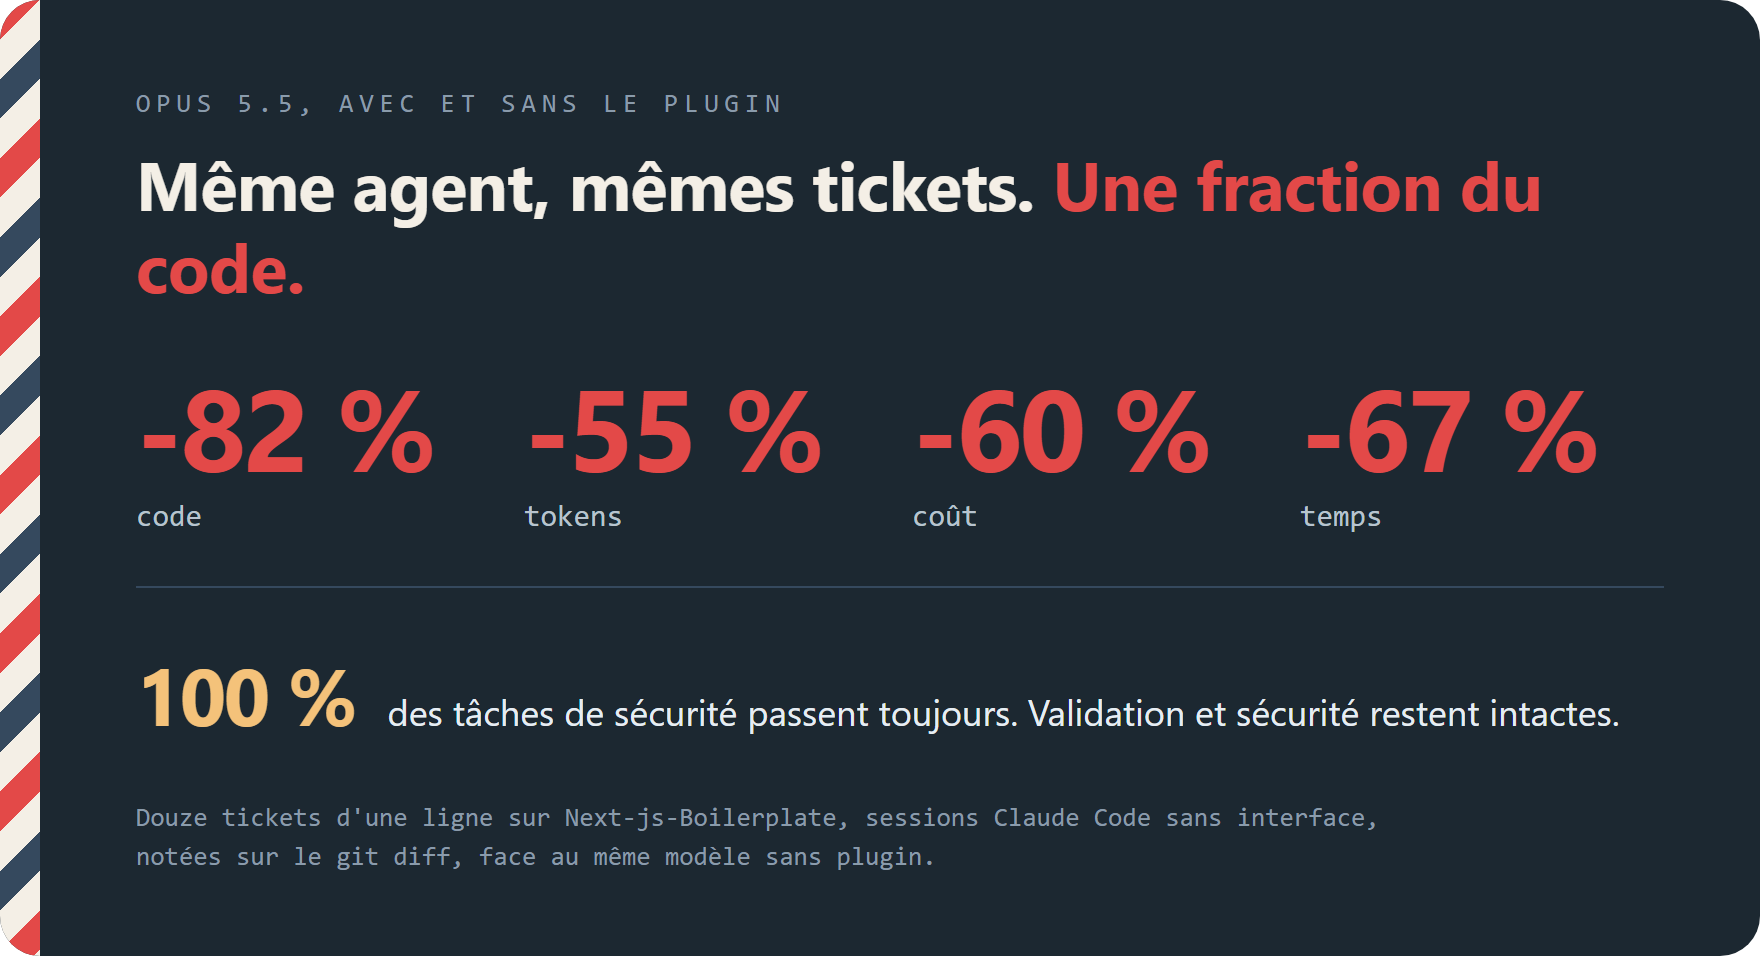
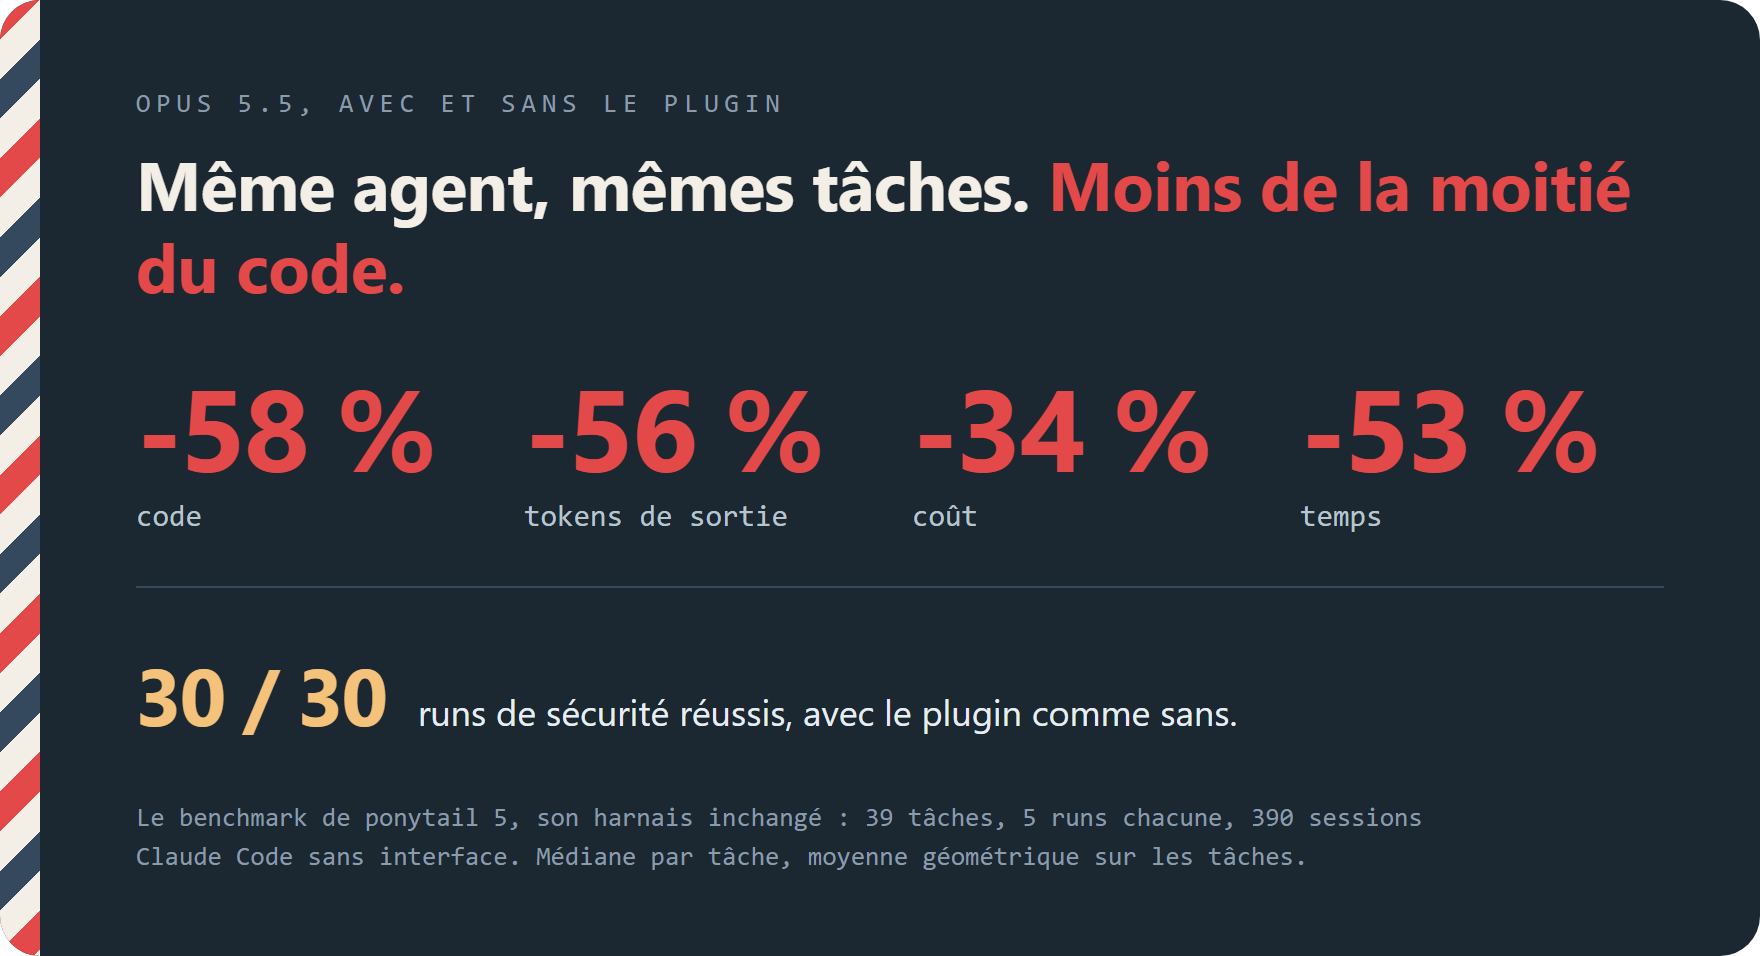
Show the ponytail 5 benchmark figures on the cards

diff --git a/assets/readme/src/pt5-fr.html b/assets/readme/src/pt5-fr.html
@@ -1,0 +1,28 @@
+<!doctype html><meta charset="utf-8"><link rel="stylesheet" href="card.css">
+<style>
+td.bar { width: 230px; padding-left: 24px; }
+td.bar i { display: block; height: 14px; border-radius: 4px; background: #E34948; }
+.two { display: grid; grid-template-columns: 1fr 1fr; gap: 20px; margin-top: 24px; }
+.two div { border: 1px solid #35495E; border-radius: 12px; padding: 14px 18px; font-size: 15.5px; line-height: 1.5; color: #B8C4CE; }
+.two b { display: block; font-family: Consolas, monospace; font-size: 22px; color: #F4EFE6; }
+.two .warn b { color: #F4C27A; }
+</style>
+<div class="card"><div class="pole"></div>
+<div class="eyebrow">Le benchmark de ponytail 5, crewcut 0.14.0 face à sans plugin</div>
+<h1>Mesuré comme ponytail se mesure. <em>Au même niveau.</em></h1>
+<table>
+<tr><th>opus 5.5, 39 tâches, 5 runs</th><th>écart</th><th>intervalle à 95 %</th><th>tâches mieux / pire</th><th></th></tr>
+<tr class="top"><td>Lignes de code</td><td class="hot">-58 %</td><td>-68 à -47</td><td>32 / 1</td><td class="bar"><i style="width:58%"></i></td></tr>
+<tr><td>Information de code, gzip</td><td class="hot">-52 %</td><td>-61 à -41</td><td>34 / 1</td><td class="bar"><i style="width:52%"></i></td></tr>
+<tr><td>Tokens de sortie</td><td class="hot">-56 %</td><td>-64 à -47</td><td>38 / 1</td><td class="bar"><i style="width:56%"></i></td></tr>
+<tr><td>Coût</td><td class="warm">-34 %</td><td>-44 à -24</td><td>32 / 7</td><td class="bar"><i style="width:34%"></i></td></tr>
+<tr><td>Temps</td><td class="hot">-53 %</td><td>-59 à -46</td><td>39 / 0</td><td class="bar"><i style="width:53%"></i></td></tr>
+<tr><td>Tours</td><td class="warm">-19 %</td><td>-26 à -11</td><td>21 / 4</td><td class="bar"><i style="width:19%"></i></td></tr>
+</table>
+<div class="two">
+<div><b>85 / 90</b>vérifications cachées réussies, 86 sans le plugin. Six tâches de sécurité : 30 sur 30 dans les deux bras.</div>
+<div class="warn"><b>0 / 5, puis 8 / 10</b>sur la tâche de confidentialité, avant et après la règle qui nomme ce qu'un changement peut exposer.</div>
+</div>
+<div class="foot">Ponytail 5 a publié, pour lui-même : code -53 %, tokens de sortie -45 %, coût -26 %, temps -41 %.<br>Deux runs à un mois d'écart, les intervalles se recouvrent.</div>
+</div>
+<script>document.documentElement.dataset.h=Math.ceil(document.querySelector(".card").getBoundingClientRect().height)</script>

diff --git a/assets/readme/src/pt5.html b/assets/readme/src/pt5.html
@@ -1,0 +1,28 @@
+<!doctype html><meta charset="utf-8"><link rel="stylesheet" href="card.css">
+<style>
+td.bar { width: 230px; padding-left: 24px; }
+td.bar i { display: block; height: 14px; border-radius: 4px; background: #E34948; }
+.two { display: grid; grid-template-columns: 1fr 1fr; gap: 20px; margin-top: 24px; }
+.two div { border: 1px solid #35495E; border-radius: 12px; padding: 14px 18px; font-size: 15.5px; line-height: 1.5; color: #B8C4CE; }
+.two b { display: block; font-family: Consolas, monospace; font-size: 22px; color: #F4EFE6; }
+.two .warn b { color: #F4C27A; }
+</style>
+<div class="card"><div class="pole"></div>
+<div class="eyebrow">Ponytail 5's benchmark, crewcut 0.14.0 against no plugin</div>
+<h1>Measured the way ponytail measures itself. <em>Level with it.</em></h1>
+<table>
+<tr><th>opus 5.5, 39 tasks, 5 runs</th><th>change</th><th>95 % interval</th><th>tasks better / worse</th><th></th></tr>
+<tr class="top"><td>Lines of code</td><td class="hot">-58 %</td><td>-68 to -47</td><td>32 / 1</td><td class="bar"><i style="width:58%"></i></td></tr>
+<tr><td>Code information, gzip</td><td class="hot">-52 %</td><td>-61 to -41</td><td>34 / 1</td><td class="bar"><i style="width:52%"></i></td></tr>
+<tr><td>Output tokens</td><td class="hot">-56 %</td><td>-64 to -47</td><td>38 / 1</td><td class="bar"><i style="width:56%"></i></td></tr>
+<tr><td>Cost</td><td class="warm">-34 %</td><td>-44 to -24</td><td>32 / 7</td><td class="bar"><i style="width:34%"></i></td></tr>
+<tr><td>Time</td><td class="hot">-53 %</td><td>-59 to -46</td><td>39 / 0</td><td class="bar"><i style="width:53%"></i></td></tr>
+<tr><td>Turns</td><td class="warm">-19 %</td><td>-26 to -11</td><td>21 / 4</td><td class="bar"><i style="width:19%"></i></td></tr>
+</table>
+<div class="two">
+<div><b>85 / 90</b>hidden checks passed, 86 without the plugin. Six security tasks: 30 of 30 in both arms.</div>
+<div class="warn"><b>0 / 5, then 8 / 10</b>on the privacy task, before and after the rule that names what a change could expose.</div>
+</div>
+<div class="foot">Ponytail 5 published, for itself: code -53 %, output tokens -45 %, cost -26 %, time -41 %.<br>Two runs a month apart, intervals overlap.</div>
+</div>
+<script>document.documentElement.dataset.h=Math.ceil(document.querySelector(".card").getBoundingClientRect().height)</script>

diff --git a/assets/readme/src/numbers.html b/assets/readme/src/numbers.html
@@ -4,20 +4,20 @@
 .n { font-size: 58px; font-weight: 700; color: #E34948; letter-spacing: -1.5px; line-height: 1; }
 .l { margin-top: 8px; font-family: Consolas, monospace; font-size: 15px; color: #B8C4CE; }
 .safe { display: flex; align-items: baseline; gap: 16px; }
-.safe b { font-size: 40px; color: #F4C27A; letter-spacing: -1px; }
+.safe b { font-size: 40px; color: #F4C27A; letter-spacing: -1px; white-space: nowrap; }
 .safe span { font-size: 18px; color: #E6EDF3; }
 </style>
 <div class="card"><div class="pole"></div>
 <div class="eyebrow">Opus 5.5, with and without the plugin</div>
-<h1>Same agent, same tickets. <em>A fraction of the code.</em></h1>
+<h1>Same agent, same tasks. <em>Less than half the code.</em></h1>
 <div class="grid">
-<div><div class="n">-82%</div><div class="l">code</div></div>
-<div><div class="n">-55%</div><div class="l">tokens</div></div>
-<div><div class="n">-60%</div><div class="l">cost</div></div>
-<div><div class="n">-67%</div><div class="l">time</div></div>
+<div><div class="n">-58%</div><div class="l">code</div></div>
+<div><div class="n">-56%</div><div class="l">output tokens</div></div>
+<div><div class="n">-34%</div><div class="l">cost</div></div>
+<div><div class="n">-53%</div><div class="l">time</div></div>
 </div>
 <div class="rule"></div>
-<div class="safe"><b>100%</b><span>of the safety tasks still pass. Nothing is cut on validation or security.</span></div>
-<div class="foot">Twelve one-line tickets on Next-js-Boilerplate, headless Claude Code sessions,<br>scored on the git diff, against the same model with no plugin.</div>
+<div class="safe"><b>30 / 30</b><span>security runs pass, with the plugin as without it.</span></div>
+<div class="foot">Ponytail 5's benchmark, its harness unchanged: 39 tasks, 5 runs each, 390 headless<br>Claude Code sessions. Median per task, geometric mean over the tasks.</div>
 </div>
 <script>document.documentElement.dataset.h=Math.ceil(document.querySelector(".card").getBoundingClientRect().height)</script>

diff --git a/assets/readme/src/numbers-fr.html b/assets/readme/src/numbers-fr.html
@@ -9,15 +9,15 @@
 </style>
 <div class="card"><div class="pole"></div>
 <div class="eyebrow">Opus 5.5, avec et sans le plugin</div>
-<h1>Même agent, mêmes tickets. <em>Une fraction du code.</em></h1>
+<h1>Même agent, mêmes tâches. <em>Moins de la moitié du code.</em></h1>
 <div class="grid">
-<div><div class="n">-82 %</div><div class="l">code</div></div>
-<div><div class="n">-55 %</div><div class="l">tokens</div></div>
-<div><div class="n">-60 %</div><div class="l">coût</div></div>
-<div><div class="n">-67 %</div><div class="l">temps</div></div>
+<div><div class="n">-58 %</div><div class="l">code</div></div>
+<div><div class="n">-56 %</div><div class="l">tokens de sortie</div></div>
+<div><div class="n">-34 %</div><div class="l">coût</div></div>
+<div><div class="n">-53 %</div><div class="l">temps</div></div>
 </div>
 <div class="rule"></div>
-<div class="safe"><b>100 %</b><span>des tâches de sécurité passent toujours. Validation et sécurité restent intactes.</span></div>
-<div class="foot">Douze tickets d'une ligne sur Next-js-Boilerplate, sessions Claude Code sans interface,<br>notées sur le git diff, face au même modèle sans plugin.</div>
+<div class="safe"><b>30 / 30</b><span>runs de sécurité réussis, avec le plugin comme sans.</span></div>
+<div class="foot">Le benchmark de ponytail 5, son harnais inchangé : 39 tâches, 5 runs chacune, 390 sessions<br>Claude Code sans interface. Médiane par tâche, moyenne géométrique sur les tâches.</div>
 </div>
 <script>document.documentElement.dataset.h=Math.ceil(document.querySelector(".card").getBoundingClientRect().height)</script>

diff --git a/assets/readme/src/benchmark-fr.html b/assets/readme/src/benchmark-fr.html
@@ -1,6 +1,6 @@
 <!doctype html><meta charset="utf-8"><link rel="stylesheet" href="card.css">
 <div class="card"><div class="pole"></div>
-<div class="eyebrow">Benchmark agentique, face au même modèle sans plugin</div>
+<div class="eyebrow">Harnais d'octobre, trois modèles, deux dépôts</div>
 <h1>Moins de code sur chaque modèle. <em>Moins de tokens là où des tours disparaissent.</em></h1>
 <table>
 <tr><th>modèle, dépôt</th><th>code</th><th>tokens</th><th>coût</th><th>temps</th><th>sûr</th></tr>

diff --git a/assets/readme/src/benchmark.html b/assets/readme/src/benchmark.html
@@ -1,6 +1,6 @@
 <!doctype html><meta charset="utf-8"><link rel="stylesheet" href="card.css">
 <div class="card"><div class="pole"></div>
-<div class="eyebrow">Agentic benchmark, against the same model with no plugin</div>
+<div class="eyebrow">October harness, three models, two repositories</div>
 <h1>Less code on every model. <em>Fewer tokens where turns disappear.</em></h1>
 <table>
 <tr><th>model, repository</th><th>code</th><th>tokens</th><th>cost</th><th>time</th><th>safe</th></tr>

diff --git a/README.fr.md b/README.fr.md
@@ -15,7 +15,7 @@
 Un plugin Claude Code pour le code le plus simple qui marche : moins de code, moins de tokens, des réponses courtes, et aucune coupe sur la sécurité.
 </p>
 
-<p align="center"><img src="assets/readme/numbers-fr.png" width="880" alt="Opus 5.5, avec et sans le plugin. Même agent, mêmes tickets, une fraction du code : 82 pour cent de code en moins, 55 pour cent de tokens en moins, 60 pour cent de coût en moins, 67 pour cent de temps en moins. 100 pour cent des tâches de sécurité passent toujours. Douze tickets d'une ligne sur Next-js-Boilerplate, sessions Claude Code sans interface, notées sur le git diff, face au même modèle sans plugin."></p>
+<p align="center"><img src="assets/readme/numbers-fr.png" width="880" alt="Opus 5.5, avec et sans le plugin. Même agent, mêmes tâches, moins de la moitié du code : 58 pour cent de code en moins, 56 pour cent de tokens de sortie en moins, 34 pour cent de coût en moins, 53 pour cent de temps en moins. 30 runs de sécurité sur 30 réussis, avec le plugin comme sans. Le benchmark de ponytail 5, son harnais inchangé : 39 tâches, 5 runs chacune, 390 sessions Claude Code sans interface. Médiane par tâche, moyenne géométrique sur les tâches."></p>
 
 ## Installation
 
@@ -53,11 +53,15 @@ Le ruleset complet est dans [Les règles](#les-regles), sous Référence.
 
 <p align="center"><img src="assets/readme/evals-fr.png" width="880" alt="Suite d'évals, sept cas, trois runs chacun. Plus court, et plus souvent juste. Fable 5.2 : 0,99 avec crewcut, 0,82 pour le même modèle sans plugin. Opus 5.5 : 1,00 avec, 0,81 sans. Sonnet 5.5 : 0,98 avec, 0,86 sans. Haiku 5.5 : 0,96 avec, 0,79 sans. Le score est la part de graders réussis. Chaque cas note la justesse autant que la taille : une réponse plus courte mais fausse vaut zéro."></p>
 
-<p align="center"><img src="assets/readme/benchmark-fr.png" width="880" alt="Benchmark agentique, face au même modèle sans plugin. Code, tokens, coût, temps, sûr. Opus 5.5 sur Next-js-Boilerplate : moins 82, moins 55, moins 60, moins 67 pour cent, 100 pour cent sûr. Opus 5.5 sur full-stack-fastapi-template : moins 70, moins 40, moins 43, moins 49, 100 sûr. Sonnet 5.5 sur Next-js-Boilerplate : moins 70, moins 11, moins 31, moins 34, 100 sûr. Haiku 4.5 sur Next-js-Boilerplate : moins 63, moins 48, moins 46, moins 40, 100 sûr. Haiku 4.5 sur le template : moins 9, moins 30, moins 30, moins 20, 100 sûr. Sonnet 5.5 sur le template : moins 8, plus 9, plus 2, moins 2, 100 sûr."></p>
+<p align="center"><img src="assets/readme/pt5-fr.png" width="880" alt="Le benchmark de ponytail 5, crewcut 0.14.0 face à sans plugin, Opus 5.5, 39 tâches, 5 runs. Lignes de code moins 58 pour cent, intervalle à 95 pour cent de moins 68 à moins 47, mieux sur 32 tâches et pire sur 1. Information de code moins 52 pour cent. Tokens de sortie moins 56 pour cent. Coût moins 34 pour cent, intervalle de moins 44 à moins 24. Temps moins 53 pour cent. Tours moins 19 pour cent. Vérifications cachées : 85 sur 90 réussies, 86 sans le plugin. Six tâches de sécurité : 30 sur 30 dans les deux bras. Tâche de confidentialité : 0 sur 5, puis 8 sur 10 après la règle qui nomme ce qu'un changement peut exposer. Ponytail 5 a publié pour lui-même : code moins 53 pour cent, tokens de sortie moins 45, coût moins 26, temps moins 41. Deux runs à un mois d'écart, les intervalles se recouvrent."></p>
+
+<p align="center"><img src="assets/readme/benchmark-fr.png" width="880" alt="Le harnais d'octobre, trois modèles, deux dépôts, face au même modèle sans plugin. Code, tokens, coût, temps, sûr. Opus 5.5 sur Next-js-Boilerplate : moins 82, moins 55, moins 60, moins 67 pour cent, 100 pour cent sûr. Opus 5.5 sur full-stack-fastapi-template : moins 70, moins 40, moins 43, moins 49, 100 sûr. Sonnet 5.5 sur Next-js-Boilerplate : moins 70, moins 11, moins 31, moins 34, 100 sûr. Haiku 4.5 sur Next-js-Boilerplate : moins 63, moins 48, moins 46, moins 40, 100 sûr. Haiku 4.5 sur le template : moins 9, moins 30, moins 30, moins 20, 100 sûr. Sonnet 5.5 sur le template : moins 8, plus 9, plus 2, moins 2, 100 sûr."></p>
 
 <p align="center"><img src="assets/readme/controls-fr.png" width="880" alt="Mêmes runs, deux contrôles : code et coût face à sans plugin, pour crewcut, crewcut tests off, et le prompt YAGNI de sept mots. Le prompt coupe autant sur Opus et Sonnet, écrit plus de code que pas de prompt sur le template Haiku, et n'est sûr que sur 96 pour cent des cellules de sécurité Haiku, là où crewcut l'est sur toutes."></p>
 
-Chaque chiffre vaut pour le modèle nommé dans sa ligne. Méthode, tableaux
+Le premier tableau est le benchmark de ponytail 5, joué avec son harnais
+inchangé ; les deux suivants viennent du harnais d'octobre, sur trois modèles
+et deux dépôts. Chaque chiffre vaut pour le modèle nommé dans sa ligne. Méthode, tableaux
 par tâche, limites et reproduction :
 [benchmarks/agentic/RESULTS.md](benchmarks/agentic/RESULTS.md) et
 [evals/RESULTS.md](evals/RESULTS.md) (en anglais).
@@ -74,7 +78,19 @@ Suite d'évals, sept cas, trois runs chacun, Sonnet comme juge :
 | Sonnet 5.5 | 0.14.0 | 0,98 | 0,86 | 4,4 | 6,2 | 0,059 USD | 0,059 USD |
 | Haiku 5.5 | 0.14.0 | 0,96 | 0,79 | 5,4 | 7,0 | 0,012 USD | 0,021 USD |
 
-Benchmark agentique, crewcut face au même modèle sans plugin :
+Le benchmark de ponytail 5, Opus 5.5, 39 tâches, 5 runs, crewcut 0.14.0
+face à sans plugin :
+
+| | écart | intervalle à 95 % | tâches mieux / pire |
+|---|--:|--:|--:|
+| Lignes de code | -58 % | -68 à -47 | 32 / 1 |
+| Information de code (gzip) | -52 % | -61 à -41 | 34 / 1 |
+| Tokens de sortie | -56 % | -64 à -47 | 38 / 1 |
+| Coût | -34 % | -44 à -24 | 32 / 7 |
+| Temps | -53 % | -59 à -46 | 39 / 0 |
+| Tours | -19 % | -26 à -11 | 21 / 4 |
+
+Le harnais d'octobre, crewcut face au même modèle sans plugin :
 
 | crewcut vs baseline sans plugin | lignes | tokens | coût | temps | sûr |
 |---|--:|--:|--:|--:|--:|

diff --git a/README.md b/README.md
@@ -15,7 +15,7 @@
 A Claude Code plugin for the simplest code that works: less code, fewer tokens, short answers, and no cut on safety.
 </p>
 
-<p align="center"><img src="assets/readme/numbers.png" width="880" alt="Opus 5.5, with and without the plugin. Same agent, same tickets, a fraction of the code: 82 percent less code, 55 percent fewer tokens, 60 percent lower cost, 67 percent less time. 100 percent of the safety tasks still pass. Twelve one-line tickets on Next-js-Boilerplate, headless Claude Code sessions, scored on the git diff, against the same model with no plugin."></p>
+<p align="center"><img src="assets/readme/numbers.png" width="880" alt="Opus 5.5, with and without the plugin. Same agent, same tasks, less than half the code: 58 percent less code, 56 percent fewer output tokens, 34 percent lower cost, 53 percent less time. 30 of 30 security runs pass, with the plugin as without it. Ponytail 5's benchmark, its harness unchanged: 39 tasks, 5 runs each, 390 headless Claude Code sessions. Median per task, geometric mean over the tasks."></p>
 
 ## Install
 
@@ -53,11 +53,15 @@ The full ruleset is in [The rules](#the-rules), under Reference.
 
 <p align="center"><img src="assets/readme/evals.png" width="880" alt="Eval suite, seven cases, three runs each. Shorter, and more often right. Fable 5.2: 0.99 with crewcut, 0.82 for the same model with no plugin. Opus 5.5: 1.00 with, 0.81 without. Sonnet 5.5: 0.98 with, 0.86 without. Haiku 5.5: 0.96 with, 0.79 without. Score is the share of graders passed. Every case grades correctness as well as size: a shorter answer that is wrong scores zero."></p>
 
-<p align="center"><img src="assets/readme/benchmark.png" width="880" alt="Agentic benchmark, against the same model with no plugin. Code, tokens, cost, time, safe. Opus 5.5 on Next-js-Boilerplate: minus 82, minus 55, minus 60, minus 67 percent, 100 percent safe. Opus 5.5 on full-stack-fastapi-template: minus 70, minus 40, minus 43, minus 49, 100 safe. Sonnet 5.5 on Next-js-Boilerplate: minus 70, minus 11, minus 31, minus 34, 100 safe. Haiku 4.5 on Next-js-Boilerplate: minus 63, minus 48, minus 46, minus 40, 100 safe. Haiku 4.5 on the template: minus 9, minus 30, minus 30, minus 20, 100 safe. Sonnet 5.5 on the template: minus 8, plus 9, plus 2, minus 2, 100 safe."></p>
+<p align="center"><img src="assets/readme/pt5.png" width="880" alt="Ponytail 5's benchmark, crewcut 0.14.0 against no plugin, Opus 5.5, 39 tasks, 5 runs. Lines of code minus 58 percent, 95 percent interval minus 68 to minus 47, better on 32 tasks and worse on 1. Code information minus 52 percent. Output tokens minus 56 percent. Cost minus 34 percent, interval minus 44 to minus 24. Time minus 53 percent. Turns minus 19 percent. Hidden checks: 85 of 90 passed, 86 without the plugin. Six security tasks: 30 of 30 in both arms. Privacy task: 0 of 5, then 8 of 10 after the rule that names what a change could expose. Ponytail 5 published for itself: code minus 53 percent, output tokens minus 45, cost minus 26, time minus 41. Two runs a month apart, intervals overlap."></p>
+
+<p align="center"><img src="assets/readme/benchmark.png" width="880" alt="The October harness, three models, two repositories, against the same model with no plugin. Code, tokens, cost, time, safe. Opus 5.5 on Next-js-Boilerplate: minus 82, minus 55, minus 60, minus 67 percent, 100 percent safe. Opus 5.5 on full-stack-fastapi-template: minus 70, minus 40, minus 43, minus 49, 100 safe. Sonnet 5.5 on Next-js-Boilerplate: minus 70, minus 11, minus 31, minus 34, 100 safe. Haiku 4.5 on Next-js-Boilerplate: minus 63, minus 48, minus 46, minus 40, 100 safe. Haiku 4.5 on the template: minus 9, minus 30, minus 30, minus 20, 100 safe. Sonnet 5.5 on the template: minus 8, plus 9, plus 2, minus 2, 100 safe."></p>
 
 <p align="center"><img src="assets/readme/controls.png" width="880" alt="Same runs, two controls: code and cost against no plugin, for crewcut, crewcut with tests off, and the seven-word YAGNI prompt. The prompt cuts as much on Opus and Sonnet, writes more code than no prompt on the Haiku template, and is safe on 96 percent of the Haiku safety cells where crewcut is safe on all of them."></p>
 
-Every figure holds for the model named in its row. Method, per-task tables,
+The first table is ponytail 5's benchmark, run with its harness unchanged;
+the two below it come from the harness of October, on three models and two
+repositories. Every figure holds for the model named in its row. Method, per-task tables,
 limits and how to reproduce:
 [benchmarks/agentic/RESULTS.md](benchmarks/agentic/RESULTS.md) and
 [evals/RESULTS.md](evals/RESULTS.md).
@@ -74,7 +78,19 @@ Eval suite, seven cases, three runs each, Sonnet as judge:
 | Sonnet 5.5 | 0.14.0 | 0.98 | 0.86 | 4.4 | 6.2 | 0.059 USD | 0.059 USD |
 | Haiku 5.5 | 0.14.0 | 0.96 | 0.79 | 5.4 | 7.0 | 0.012 USD | 0.021 USD |
 
-Agentic benchmark, crewcut against the same model with no plugin:
+Ponytail 5's benchmark, Opus 5.5, 39 tasks, 5 runs, crewcut 0.14.0 against
+no plugin:
+
+| | change | 95 % interval | tasks better / worse |
+|---|--:|--:|--:|
+| Lines of code | -58 % | -68 to -47 | 32 / 1 |
+| Code information (gzip) | -52 % | -61 to -41 | 34 / 1 |
+| Output tokens | -56 % | -64 to -47 | 38 / 1 |
+| Cost | -34 % | -44 to -24 | 32 / 7 |
+| Time | -53 % | -59 to -46 | 39 / 0 |
+| Turns | -19 % | -26 to -11 | 21 / 4 |
+
+The October harness, crewcut against the same model with no plugin:
 
 | crewcut vs no-plugin baseline | LOC | tokens | cost | time | safe |
 |---|--:|--:|--:|--:|--:|
